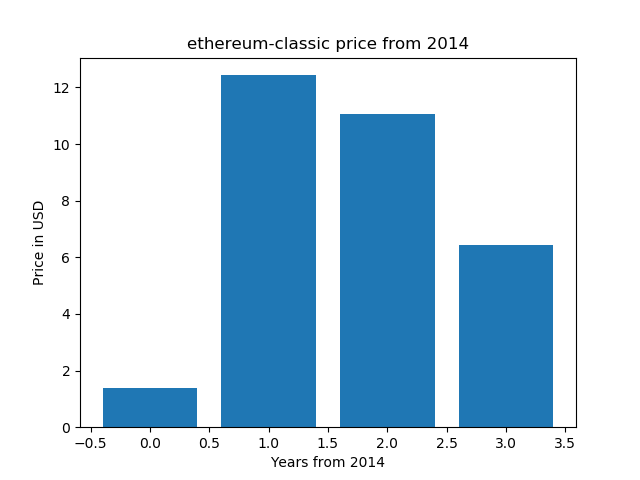
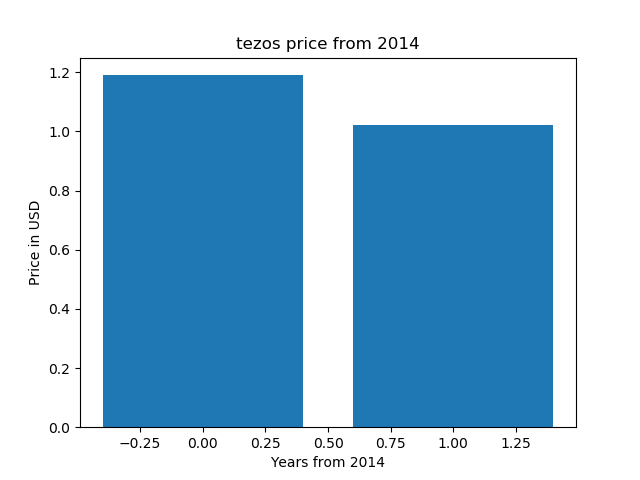
first commit

diff --git a/example.py b/example.py
@@ -10,7 +10,7 @@ from time import gmtime, strftime
 import matplotlib.pyplot as plt
 
 enddate = strftime("%Y%m%d", gmtime())
-r  = requests.get("https://coinmarketcap.com/currencies/ethereum-classic/historical-data/?start=20140101&end={0}".format(enddate))
+r  = requests.get("https://coinmarketcap.com/currencies/tezos/historical-data/?start=20140101&end={0}".format(enddate))
 data = r.text
 
 soup = BeautifulSoup(data, "html.parser")
@@ -44,7 +44,7 @@ print(x)
 
 x = list(range(0, len(prices)))
 
-plt.title('ethereum-classic price from 2014')
+plt.title('tezos price from 2014')
 plt.ylabel('Price in USD')
 plt.xlabel('Years from 2014')
 plt.bar(x, prices)

diff --git a/README.md b/README.md
@@ -1,6 +1,6 @@
-# ethereum-classic price chart 
+# tezos price chart 
 
-ethereum-classic price chart (matplotlib, python)
+tezos price chart (matplotlib, python)
 
 https://pythonprogramminglanguage.com
 
